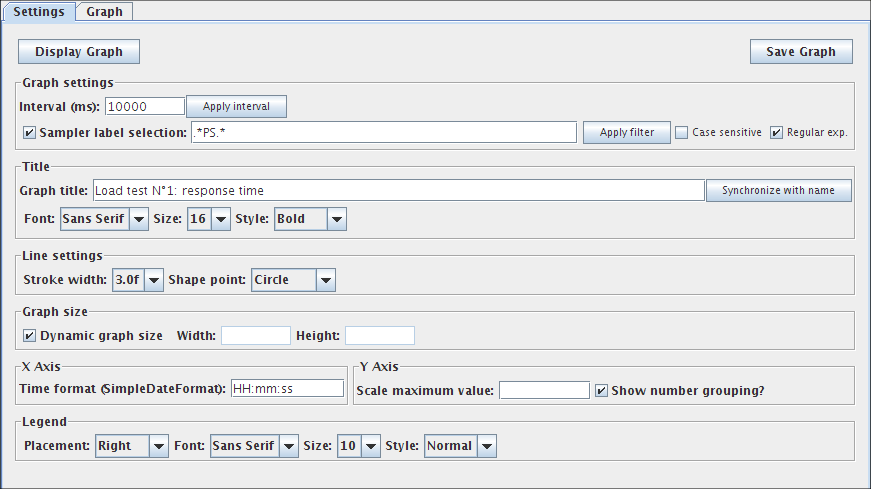
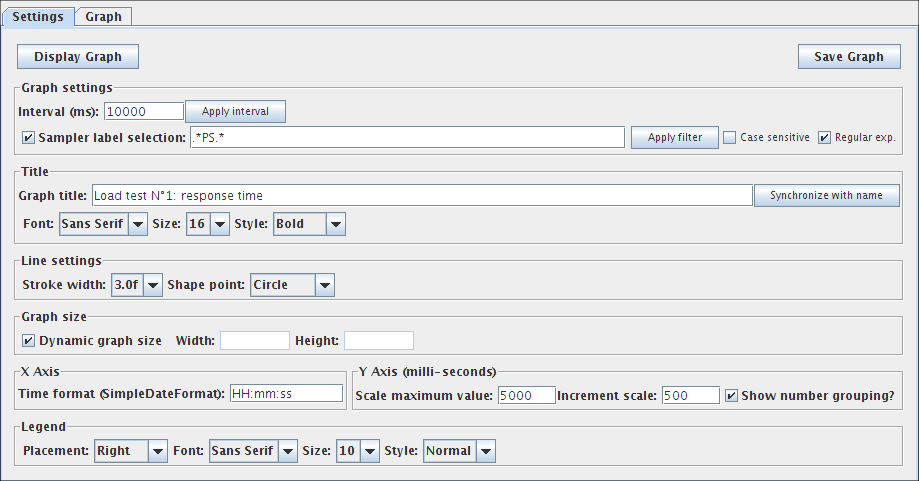
Improve Response Time Graph Y axis scale with huge values or small values (< 1000ms). Add a new field to define increment scale Bugzilla Id: 54532
git-svn-id: https://svn.apache.org/repos/asf/jmeter/trunk@1444399 13f79535-47bb-0310-9956-ffa450edef68

Former-commit-id: eb22e8412a993a41f14f54e26b81a0ff9bcc4a49

Changed region(s): [[0.0, 0.0, 1.0, 0.9979], [0.961, 0.6549, 0.992, 0.7173]]

diff --git a/src/components/org/apache/jmeter/visualizers/RespTimeGraphChart.java b/src/components/org/apache/jmeter/visualizers/RespTimeGraphChart.java
@@ -74,6 +74,8 @@ public class RespTimeGraphChart extends JPanel {
     
     protected int height;
 
+    protected int incrYAxisScale;
+
     protected String[] legendLabels = { JMeterUtils.getResString("aggregate_graph_legend") }; // $NON-NLS-1$
 
     protected int maxYAxisScale;
@@ -148,6 +150,13 @@ public class RespTimeGraphChart extends JPanel {
 
     public void setHeight(int h) {
         this.height = h;
+    }
+
+    /**
+     * @param incrYAxisScale the incrYAxisScale to set
+     */
+    public void setIncrYAxisScale(int incrYAxisScale) {
+        this.incrYAxisScale = incrYAxisScale;
     }
 
     /**
@@ -264,10 +273,10 @@ public class RespTimeGraphChart extends JPanel {
 
     private void drawSample(String _title, String[] _xAxisLabels,
             String _yAxisTitle, String[] _legendLabels, 
-            double[][] _data, int _width, int _height, 
+            double[][] _data, int _width, int _height, int _incrScaleYAxis,
             Color[] _color, Font legendFont, Graphics g) {
         
-        double max = maxYAxisScale > 0 ? maxYAxisScale : findMax(_data); // define max scale y axis
+        double max = maxYAxisScale > 0 ? maxYAxisScale : getTopValue(findMax(_data), BigDecimal.ROUND_UP); // define max scale y axis
         try {
             // if the title graph is empty, we can assume some default
             if (_title.length() == 0 ) {
@@ -313,11 +322,17 @@ public class RespTimeGraphChart extends JPanel {
 
             // Y Axis ruler
             try {
-                BigDecimal round = new BigDecimal(max / 1000d);
-                round = round.setScale(0, BigDecimal.ROUND_UP);
-                double topValue = round.doubleValue() * 1000;
-                yaxis.setUserDefinedScale(0, 500);
-                yaxis.setNumItems((int) (topValue / 500)+1);
+                double numInterval = _height / 50; // ~a tic every 50 px
+                double incrYAxis = new Double(max / numInterval);
+                double incrTopValue = _incrScaleYAxis;
+                if (_incrScaleYAxis == 0) {
+                    incrTopValue = getTopValue(incrYAxis, BigDecimal.ROUND_HALF_UP);
+                }
+                if (incrTopValue < 1) { 
+                    incrTopValue = 1.0d; // Increment cannot be < 1
+                }
+                yaxis.setUserDefinedScale(0, incrTopValue);
+                yaxis.setNumItems(new Double(max / incrTopValue).intValue() + 1);
                 yaxis.setShowGridLines(1);
             } catch (PropertyException e) {
                 log.warn("",e);
@@ -350,13 +365,26 @@ public class RespTimeGraphChart extends JPanel {
         }
     }
 
+    private int getTopValue(double value, int roundMode) {
+        String maxStr = String.valueOf(Math.round(value));
+        String divValueStr = "1"; //$NON-NLS-1$
+        for (int i = 1; i < maxStr.length(); i++) {
+            divValueStr += "0"; //$NON-NLS-1$
+        }
+        int divValueInt = Integer.parseInt(divValueStr);
+        BigDecimal round = new BigDecimal(value / divValueInt);
+        round = round.setScale(0, roundMode);
+        int topValue = round.intValue() * divValueInt;
+        return topValue;
+    }
+
     @Override
     public void paintComponent(Graphics graphics) {
         if (data != null && this.title != null && this.xAxisLabels != null &&
                 this.yAxisLabel != null && this.yAxisTitle != null) {
             drawSample(this.title, this.xAxisLabels, 
                     this.yAxisTitle, this.legendLabels,
-                    this.data, this.width, this.height, this.color,
+                    this.data, this.width, this.height, this.incrYAxisScale, this.color,
                     this.legendFont, graphics);
         }
     }

diff --git a/src/components/org/apache/jmeter/visualizers/RespTimeGraphVisualizer.java b/src/components/org/apache/jmeter/visualizers/RespTimeGraphVisualizer.java
@@ -158,7 +158,7 @@ public class RespTimeGraphVisualizer extends AbstractVisualizer implements Actio
             new JLabeledTextField(JMeterUtils.getResString("graph_resp_time_xaxis_time_format"), 10); //$NON-NLS-1$ $NON-NLS-2$
 
     private final JLabeledTextField maxValueYAxisLabel =
-            new JLabeledTextField(JMeterUtils.getResString("aggregate_graph_yaxis_max_value"), 8); //$NON-NLS-1$
+            new JLabeledTextField(JMeterUtils.getResString("aggregate_graph_yaxis_max_value"), 5); //$NON-NLS-1$
 
     /**
      * checkbox for use dynamic graph size
@@ -169,6 +169,9 @@ public class RespTimeGraphVisualizer extends AbstractVisualizer implements Actio
             new JLabeledTextField(JMeterUtils.getResString("aggregate_graph_width"), 6); //$NON-NLS-1$
     private final JLabeledTextField graphHeight =
             new JLabeledTextField(JMeterUtils.getResString("aggregate_graph_height"), 6); //$NON-NLS-1$
+
+    private final JLabeledTextField incrScaleYAxis =
+            new JLabeledTextField(JMeterUtils.getResString("aggregate_graph_increment_scale"), 5); //$NON-NLS-1$
 
     private long minStartTime = Long.MAX_VALUE;
 
@@ -302,6 +305,7 @@ public class RespTimeGraphVisualizer extends AbstractVisualizer implements Actio
 
         graphPanel.setHeight(height);
         graphPanel.setWidth(width);
+        graphPanel.setIncrYAxisScale(getIncrScaleYAxis());
         // Draw the graph
         graphPanel.repaint();
     }
@@ -575,6 +579,15 @@ public class RespTimeGraphVisualizer extends AbstractVisualizer implements Actio
         return linesColors;
     }
 
+    private int getIncrScaleYAxis() {
+        int incrYAxisScale = 0;
+        String iyas = incrScaleYAxis.getText();
+        if (iyas.length() != 0) {
+            incrYAxisScale = Integer.parseInt(iyas);
+        }
+        return incrYAxisScale;
+    }
+
     private JPanel createGraphSettingsPane() {
         JPanel settingsPane = new JPanel(new BorderLayout());
         settingsPane.setBorder(BorderFactory.createTitledBorder(
@@ -713,7 +726,7 @@ public class RespTimeGraphVisualizer extends AbstractVisualizer implements Actio
                 BorderFactory.createEtchedBorder(),
                 JMeterUtils.getResString("aggregate_graph_yaxis_group"))); // $NON-NLS-1$
         yAxisPane.add(maxValueYAxisLabel);
-
+        yAxisPane.add(incrScaleYAxis);
         yAxisPane.add(numberShowGrouping);
         return yAxisPane;
     }
